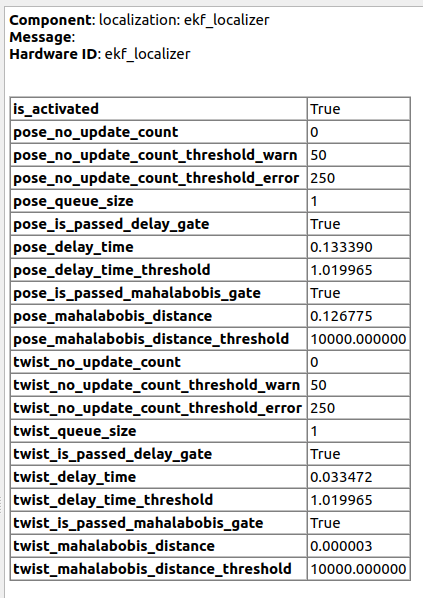
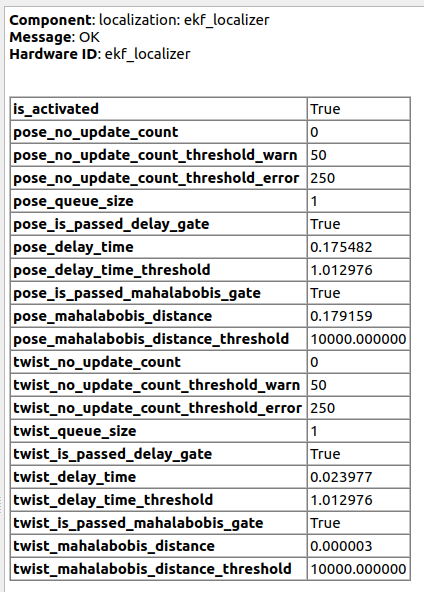
add OK message

diff --git a/localization/ekf_localizer/src/diagnostics.cpp b/localization/ekf_localizer/src/diagnostics.cpp
@@ -29,7 +29,7 @@ diagnostic_msgs::msg::DiagnosticStatus checkProcessActivated(const bool is_activ
   stat.values.push_back(key_value);
 
   stat.level = diagnostic_msgs::msg::DiagnosticStatus::OK;
-  stat.message = "";
+  stat.message = "OK";
   if (!is_activated) {
     stat.level = diagnostic_msgs::msg::DiagnosticStatus::WARN;
     stat.message = "[WARN]process is not activated";
@@ -56,7 +56,7 @@ diagnostic_msgs::msg::DiagnosticStatus checkMeasurementUpdated(
   stat.values.push_back(key_value);
 
   stat.level = diagnostic_msgs::msg::DiagnosticStatus::OK;
-  stat.message = "";
+  stat.message = "OK";
   if (no_update_count >= no_update_count_threshold_warn) {
     stat.level = diagnostic_msgs::msg::DiagnosticStatus::WARN;
     stat.message = "[WARN]" + measurement_type + " is not updated";
@@ -80,7 +80,7 @@ diagnostic_msgs::msg::DiagnosticStatus checkMeasurementQueueSize(
   stat.values.push_back(key_value);
 
   stat.level = diagnostic_msgs::msg::DiagnosticStatus::OK;
-  stat.message = "";
+  stat.message = "OK";
 
   return stat;
 }
@@ -103,7 +103,7 @@ diagnostic_msgs::msg::DiagnosticStatus checkMeasurementDelayGate(
   stat.values.push_back(key_value);
 
   stat.level = diagnostic_msgs::msg::DiagnosticStatus::OK;
-  stat.message = "";
+  stat.message = "OK";
   if (!is_passed_delay_gate) {
     stat.level = diagnostic_msgs::msg::DiagnosticStatus::WARN;
     stat.message = "[WARN]" + measurement_type + " topic is delay";
@@ -130,7 +130,7 @@ diagnostic_msgs::msg::DiagnosticStatus checkMeasurementMahalanobisGate(
   stat.values.push_back(key_value);
 
   stat.level = diagnostic_msgs::msg::DiagnosticStatus::OK;
-  stat.message = "";
+  stat.message = "OK";
   if (!is_passed_mahalabobis_gate) {
     stat.level = diagnostic_msgs::msg::DiagnosticStatus::WARN;
     stat.message = "[WARN]mahalabobis distance of " + measurement_type + " topic is large";
@@ -159,6 +159,10 @@ diagnostic_msgs::msg::DiagnosticStatus mergeDiagnosticStatus(
     for (const auto & value : stat.values) {
       merged_stat.values.push_back(value);
     }
+  }
+
+  if (merged_stat.level == diagnostic_msgs::msg::DiagnosticStatus::OK) {
+    merged_stat.message = "OK";
   }
 
   return merged_stat;

diff --git a/localization/ekf_localizer/test/test_diagnostics.cpp b/localization/ekf_localizer/test/test_diagnostics.cpp
@@ -135,23 +135,23 @@ TEST(TestLocalizationErrorMonitorDiagnostics, MergeDiagnosticStatus)
   std::vector<diagnostic_msgs::msg::DiagnosticStatus> stat_array(2);
 
   stat_array.at(0).level = diagnostic_msgs::msg::DiagnosticStatus::OK;
-  stat_array.at(0).message = "";
+  stat_array.at(0).message = "OK";
   stat_array.at(1).level = diagnostic_msgs::msg::DiagnosticStatus::OK;
-  stat_array.at(1).message = "";
+  stat_array.at(1).message = "OK";
   merged_stat = mergeDiagnosticStatus(stat_array);
   EXPECT_EQ(merged_stat.level, diagnostic_msgs::msg::DiagnosticStatus::OK);
-  EXPECT_EQ(merged_stat.message, "");
+  EXPECT_EQ(merged_stat.message, "OK");
 
   stat_array.at(0).level = diagnostic_msgs::msg::DiagnosticStatus::WARN;
   stat_array.at(0).message = "WARN0";
   stat_array.at(1).level = diagnostic_msgs::msg::DiagnosticStatus::OK;
-  stat_array.at(1).message = "";
+  stat_array.at(1).message = "OK";
   merged_stat = mergeDiagnosticStatus(stat_array);
   EXPECT_EQ(merged_stat.level, diagnostic_msgs::msg::DiagnosticStatus::WARN);
   EXPECT_EQ(merged_stat.message, "WARN0");
 
   stat_array.at(0).level = diagnostic_msgs::msg::DiagnosticStatus::OK;
-  stat_array.at(0).message = "";
+  stat_array.at(0).message = "OK";
   stat_array.at(1).level = diagnostic_msgs::msg::DiagnosticStatus::WARN;
   stat_array.at(1).message = "WARN1";
   merged_stat = mergeDiagnosticStatus(stat_array);
@@ -167,7 +167,7 @@ TEST(TestLocalizationErrorMonitorDiagnostics, MergeDiagnosticStatus)
   EXPECT_EQ(merged_stat.message, "WARN0; WARN1");
 
   stat_array.at(0).level = diagnostic_msgs::msg::DiagnosticStatus::OK;
-  stat_array.at(0).message = "";
+  stat_array.at(0).message = "OK";
   stat_array.at(1).level = diagnostic_msgs::msg::DiagnosticStatus::ERROR;
   stat_array.at(1).message = "ERROR1";
   merged_stat = mergeDiagnosticStatus(stat_array);
